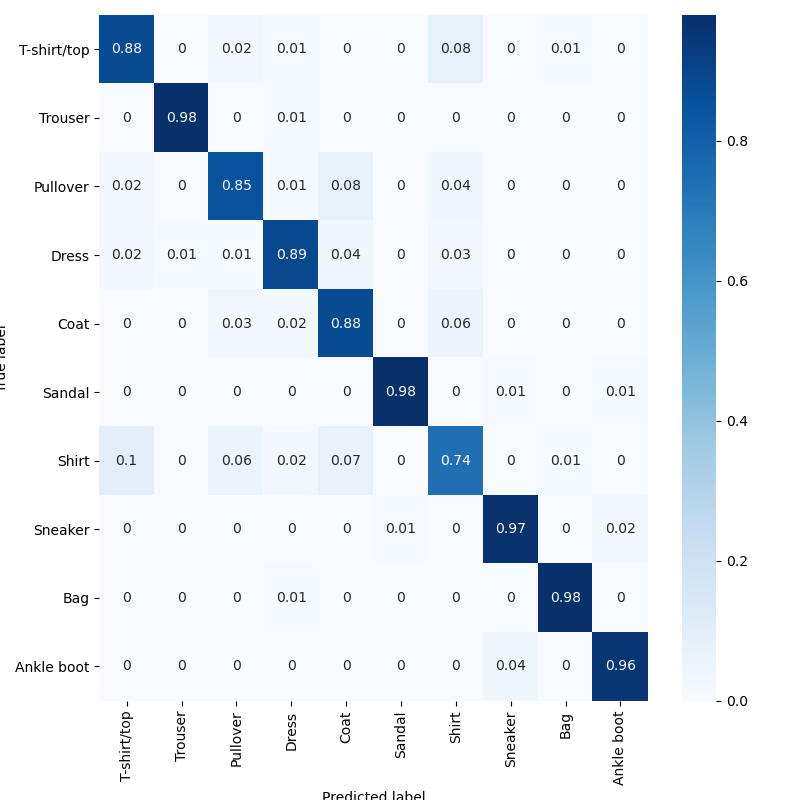
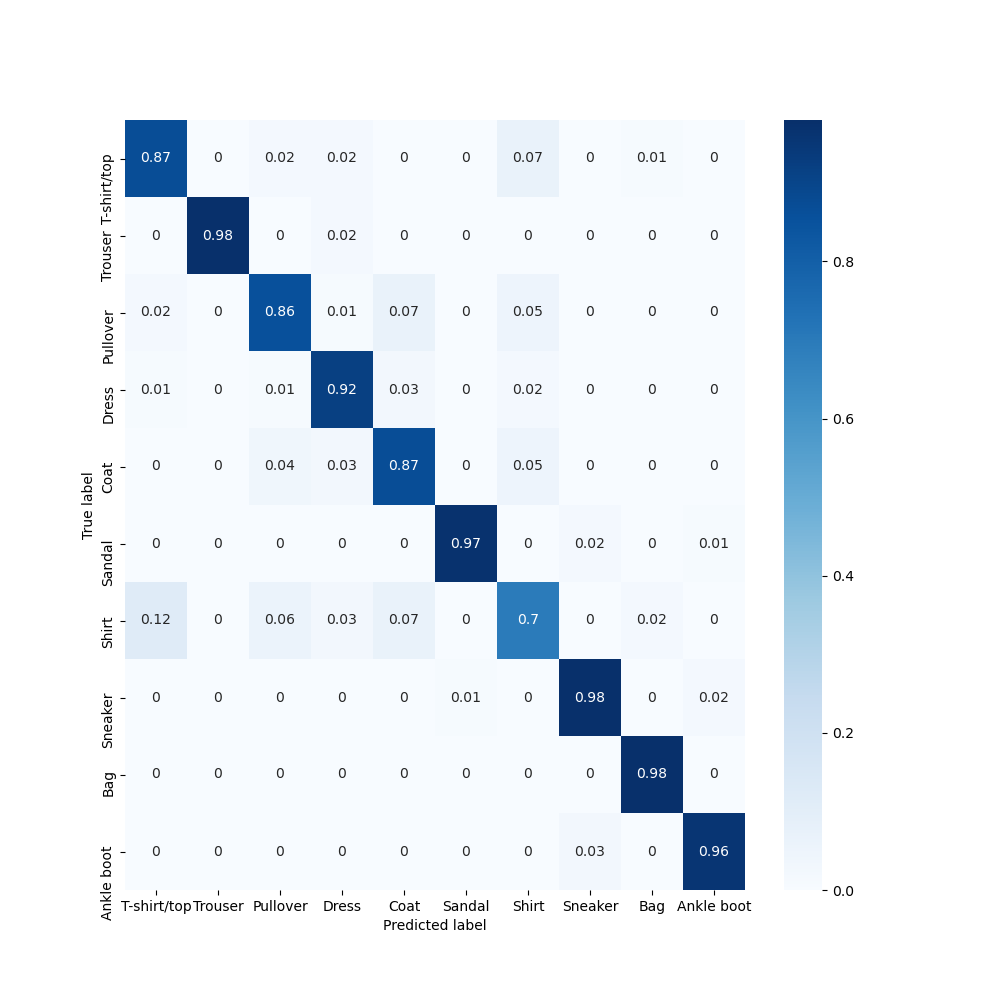
changed confusion matrix code

diff --git a/main.py b/main.py
@@ -241,15 +241,14 @@ def testing_stage():
 
 def confusion_matrix(model, test_images, test_labels):
     y_pred = model.predict_classes(test_images)
-    con_mat = tf.math.confusion_matrix(labels=test_labels, predictions=y_pred).numpy()
-    con_mat_norm = np.around(con_mat.astype('float') / con_mat.sum(axis=1)[:, np.newaxis], decimals=2)
+    confusion_matrix_model = tf.math.confusion_matrix(labels=test_labels, predictions=y_pred).numpy()
+    confusion_normalization = np.around(confusion_matrix_model.astype('float') / confusion_matrix_model.sum(axis=1)[:, np.newaxis], decimals=2)
 
     classes = ["T-shirt/top", "Trouser", "Pullover", "Dress", "Coat", "Sandal", "Shirt", "Sneaker", "Bag", "Ankle boot"]
-    con_mat_df = pd.DataFrame(con_mat_norm, index=classes, columns=classes)
+    confusion_dataframe = pd.DataFrame(confusion_normalization, index=classes, columns=classes)
 
-    figure = plt.figure(figsize=(8, 8))
-    sns.heatmap(con_mat_df, annot=True, cmap=plt.cm.Blues)
-    plt.tight_layout()
+    plt.figure(figsize=(10, 10))
+    sns.heatmap(confusion_dataframe, annot=True, cmap=plt.cm.Blues)
     plt.ylabel('True label')
     plt.xlabel('Predicted label')
     plt.show()
